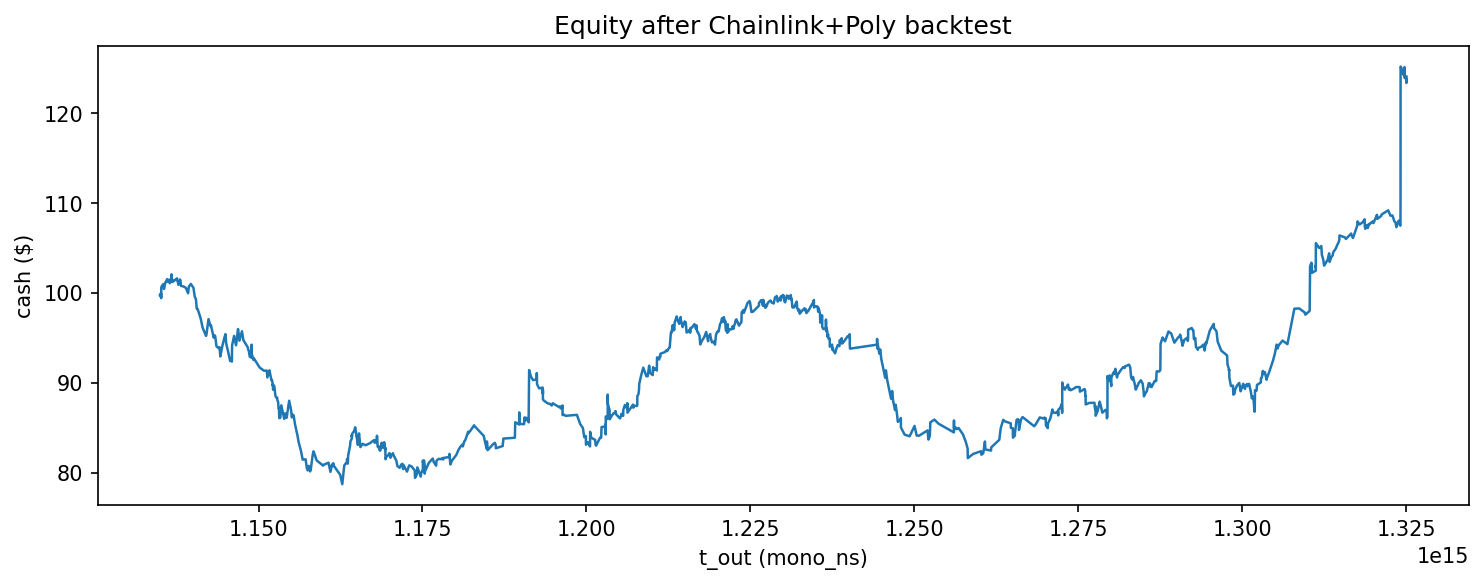
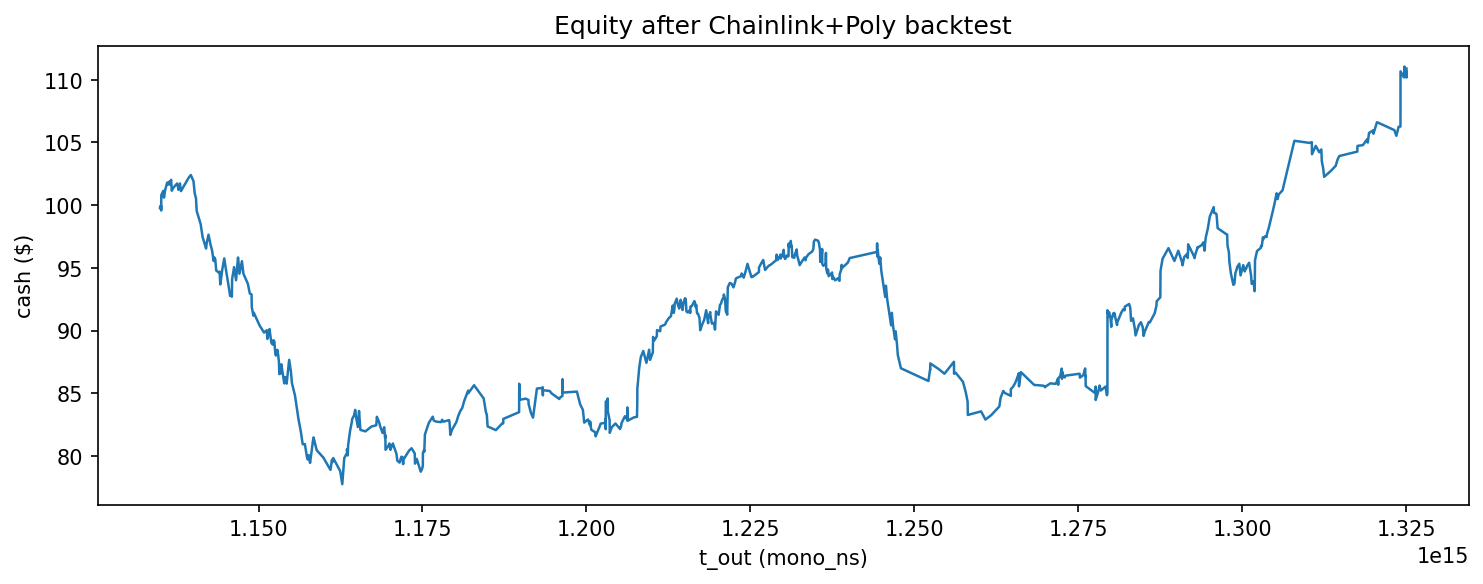
1

diff --git a/apps/btc_poly_runner.cpp b/apps/btc_poly_runner.cpp
@@ -264,6 +264,11 @@ struct HotState {
   bool have_down{false};
   double down_bid{0.0};
   double down_ask{0.0};
+
+  /// Mono time when `theo-ask >= entry` (Up) or `theo-ask >= entry` (Down) first became true; -1 if not armed.
+  /// Aligns with `data/real_backtest.ipynb` EDGE_PERSIST_MS (continuous edge in steady time).
+  std::int64_t edge_up_ok_since_mono_ns{-1};
+  std::int64_t edge_dn_ok_since_mono_ns{-1};
 };
 
 static inline double clamp01(double x) { return (x < 0.0) ? 0.0 : (x > 1.0 ? 1.0 : x); }
@@ -425,8 +430,11 @@ int run_live_impl(bool live_execution, int argc, char** argv) {
   double close_eps = 0.0;
   /// BUY only when local-wall seconds since bucket start in [min, max] (aligns with backtest.ipynb cell 10).
   bool use_entry_elapsed_window = true;
-  double entry_elapsed_min_sec = 260.0;
+  double entry_elapsed_min_sec = 250.0;
   double entry_elapsed_max_sec = 298.0;
+  /// BUY: `theo-ask >= entry` must hold continuously for this many ms (steady clock); 0 = off (legacy).
+  /// Matches `data/real_backtest.ipynb` EDGE_PERSIST_MS.
+  int edge_persist_ms = 1000;
   int lat_ms = live_execution ? 0 : 100;  // data/backtest.ipynb LAT_MS
   double fee_rate = 0.075;                // POLY_TAKER_FEE_RATE in backtest.ipynb
   double max_loss_usd = std::numeric_limits<double>::infinity();
@@ -538,6 +546,12 @@ int run_live_impl(bool live_execution, int argc, char** argv) {
       entry_elapsed_min_sec = std::stod(argv[++i]);
     } else if (a == "--entry-elapsed-max-sec" && i + 1 < argc) {
       entry_elapsed_max_sec = std::stod(argv[++i]);
+    } else if (a == "--edge-persist-ms" && i + 1 < argc) {
+      edge_persist_ms = std::stoi(argv[++i]);
+      if (edge_persist_ms < 0) {
+        { ll::io::SyncCerrLock _; std::cerr << "--edge-persist-ms must be >= 0 (0 disables)\n"; }
+        return 2;
+      }
     } else if (a == "--buy-ask-min" && i + 1 < argc) {
       buy_ask_min = std::stod(argv[++i]);
     } else if (a == "--buy-ask-max" && i + 1 < argc) {
@@ -576,9 +590,11 @@ int run_live_impl(bool live_execution, int argc, char** argv) {
                    "                             (vs --initial-cash baseline; default: no cap)\n"
                    "  --fixed-spend-usd X        each BUY uses X USDC notional (overrides --risk-frac);\n"
                    "                             still capped by cash; Polymarket min ~$1 applies\n"
-                   "  --entry-elapsed-min-sec S  (with max; default 260; local wall sec since bucket start,\n"
+                   "  --entry-elapsed-min-sec S  (with max; default 250; local wall sec since bucket start,\n"
                    "                             same idea as backtest.ipynb cell 10 histogram)\n"
-                   "  --entry-elapsed-max-sec S  (default 300; inclusive)\n"
+                   "  --entry-elapsed-max-sec S  (default 298; inclusive)\n"
+                   "  --edge-persist-ms N        BUY: theo-ask>=entry must hold N ms steady time (default 1000;\n"
+                   "                             0 off). Matches data/real_backtest.ipynb EDGE_PERSIST_MS.\n"
                    "  --no-entry-elapsed-window  allow BUY any time in bucket (disables the above)\n"
                    "  --buy-ask-min P            (with max; default 0; BUY only if best ask in [min, max])\n"
                    "  --buy-ask-max P            (default 0.2)\n"
@@ -620,6 +636,9 @@ int run_live_impl(bool live_execution, int argc, char** argv) {
     }
   }
 
+  const std::int64_t edge_persist_ns =
+      edge_persist_ms > 0 ? static_cast<std::int64_t>(edge_persist_ms) * 1'000'000LL : 0LL;
+
 #ifndef LL_ENABLE_GARCH_DAEMON
   if (sigma_try_garch) {
     ll::io::SyncCerrLock _;
@@ -658,6 +677,12 @@ int run_live_impl(bool live_execution, int argc, char** argv) {
       std::cerr << "[" << src_tag << "] BUY ask range: [" << buy_ask_min << ", " << buy_ask_max << "] (ask>0)\n";
     } else {
       std::cerr << "[" << src_tag << "] BUY ask range: disabled (min ask 0.02 for entry)\n";
+    }
+    if (edge_persist_ns > 0) {
+      std::cerr << "[" << src_tag << "] BUY edge persist: " << edge_persist_ms
+                << " ms steady (real_backtest.ipynb EDGE_PERSIST_MS)\n";
+    } else {
+      std::cerr << "[" << src_tag << "] BUY edge persist: off\n";
     }
   }
   std::unique_ptr<TradeJsonlWriter> chainlink_ticks_writer;
@@ -780,8 +805,17 @@ int run_live_impl(bool live_execution, int argc, char** argv) {
     if (paper.pending) return;
     if (paper.risk_stop) return;
 
+    if (paper.have_pos) {
+      std::lock_guard<std::mutex> hk(hot.mu);
+      hot.edge_up_ok_since_mono_ns = -1;
+      hot.edge_dn_ok_since_mono_ns = -1;
+    }
+
     if (!paper.have_pos) {
       if (!trading_enabled) {
+        std::lock_guard<std::mutex> hk(hot.mu);
+        hot.edge_up_ok_since_mono_ns = -1;
+        hot.edge_dn_ok_since_mono_ns = -1;
         return;
       }
       const double e_up = p_up - up_ask;
@@ -791,8 +825,30 @@ int run_live_impl(bool live_execution, int argc, char** argv) {
         if (use_buy_ask_range) return ask >= buy_ask_min && ask <= buy_ask_max;
         return ask >= 0.02;
       };
-      const bool up_ok = (e_up >= entry) && buy_ask_ok(up_ask);
-      const bool dn_ok = (e_dn >= entry) && buy_ask_ok(dn_ask);
+      const bool edge_up_raw = (e_up >= entry) && buy_ask_ok(up_ask);
+      const bool edge_dn_raw = (e_dn >= entry) && buy_ask_ok(dn_ask);
+
+      bool up_ok = false;
+      bool dn_ok = false;
+      {
+        std::lock_guard<std::mutex> hk(hot.mu);
+        if (edge_up_raw) {
+          if (hot.edge_up_ok_since_mono_ns < 0) hot.edge_up_ok_since_mono_ns = now_ns;
+        } else {
+          hot.edge_up_ok_since_mono_ns = -1;
+        }
+        if (edge_dn_raw) {
+          if (hot.edge_dn_ok_since_mono_ns < 0) hot.edge_dn_ok_since_mono_ns = now_ns;
+        } else {
+          hot.edge_dn_ok_since_mono_ns = -1;
+        }
+        if (edge_up_raw && (edge_persist_ns <= 0LL || (now_ns - hot.edge_up_ok_since_mono_ns) >= edge_persist_ns)) {
+          up_ok = true;
+        }
+        if (edge_dn_raw && (edge_persist_ns <= 0LL || (now_ns - hot.edge_dn_ok_since_mono_ns) >= edge_persist_ns)) {
+          dn_ok = true;
+        }
+      }
       if (!up_ok && !dn_ok) return;
       std::int64_t ae = -1;
       std::int64_t ecw = 0;
@@ -1696,6 +1752,8 @@ int run_live_impl(bool live_execution, int argc, char** argv) {
           }
           hot.have_sigma = false;
           hot.sigma_bucket = 0.0;
+          hot.edge_up_ok_since_mono_ns = -1;
+          hot.edge_dn_ok_since_mono_ns = -1;
         }
         {
           std::lock_guard<std::mutex> lk(paper_mu);
@@ -1914,6 +1972,8 @@ int run_live_impl(bool live_execution, int argc, char** argv) {
           if (ev.quote.market_bucket_epoch >= 0 && hot.active_epoch < 0) {
             hot.active_epoch = ev.quote.market_bucket_epoch;
             hot.slug = ev.quote.event_slug;
+            hot.edge_up_ok_since_mono_ns = -1;
+            hot.edge_dn_ok_since_mono_ns = -1;
           }
         }
         on_hot_update();
